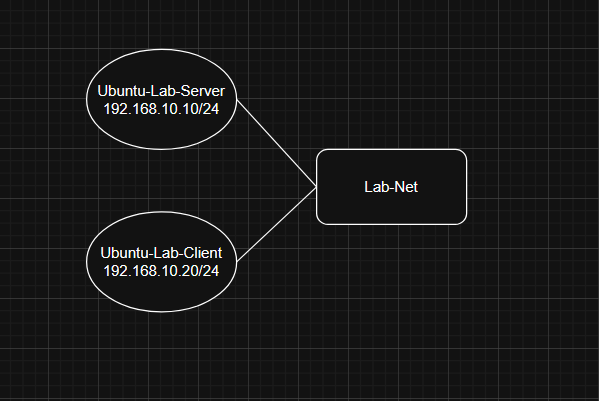
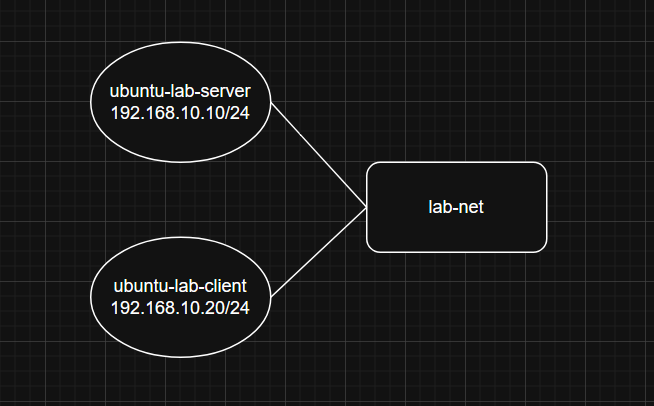
Hostname case change
Changed documents to more accurately reflect hostname (all lower case)

diff --git a/Notes/Lab Journal.md b/Notes/Lab Journal.md
@@ -15,14 +15,14 @@
 ###### \# Day 1 (1/4/26):
 
 * Downloaded Ubuntu v24.04.4 LTS .ISO file.
-* Created initial setup of new server VM that runs Ubuntu v24.04.4 LTS. (Ubuntu-Lab-Server)
+* Created initial setup of new server VM that runs Ubuntu v24.04.4 LTS. (ubuntu-lab-server)
 RAM: 4GB.
 CPU: 4 vCPU cores.
 Disk: 25GB, dynamically allocated.
 
 
 
-* Ubuntu-Lab-Server fully installed.
+* ubuntu-lab-server fully installed.
 * Adapter 1 automatically attached to NAT.
 * Successfully installed OpenSSH Server for future secure remote access, encrypted communications and authentication.
 * Used 'ip a' to confirm device IP address and confirm network connectivity.
@@ -35,14 +35,14 @@ Disk: 25GB, dynamically allocated.
 
 ###### \# Day 2 (2/4/26):
 
-* Created initial setup of new VM that runs Ubuntu v24.04.4 LTS. (Ubuntu-Lab-Client)
+* Created initial setup of new VM that runs Ubuntu v24.04.4 LTS. (ubuntu-lab-client)
 RAM: 4GB.
 CPU: 4 vCPU cores.
 Disk: 25GB, dynamically allocated.
 
 
 
-* Ubuntu-Lab-Client fully installed.
+* ubuntu-lab-client fully installed.
 * Adapter 1 automatically attached to NAT.
 * Discovered issue with VM not re-sizing to full screen - See Issue 1 in Troubleshooting.md.
 Successfully installed OpenSSH Client for future secure remote access, encrypted communications and authentication.
@@ -111,12 +111,4 @@ Used 'ping -c 4 google.com' to ping google.com URL 4 times to test external conn
 * Used modern Netplan route configuration instead of deprecated 'gateway4' notation.
 * Use 'ip route' to confirm 'default via 192.168.10.1' is returned.
 * Removed simulated gateway.
-
-
-
-
-
-
-
-
 

diff --git a/Notes/Network Configuration.md b/Notes/Network Configuration.md
@@ -10,7 +10,7 @@ Subnet: 192.168.10.0/24
 
 \# Devices
 
-Ubuntu-Lab-Server: 192.168.10.10
+ubuntu-lab-server: 192.168.10.10
 
-Ubuntu-Lab-Client: 192.168.10.20
+ubuntu-lab-client: 192.168.10.20
 